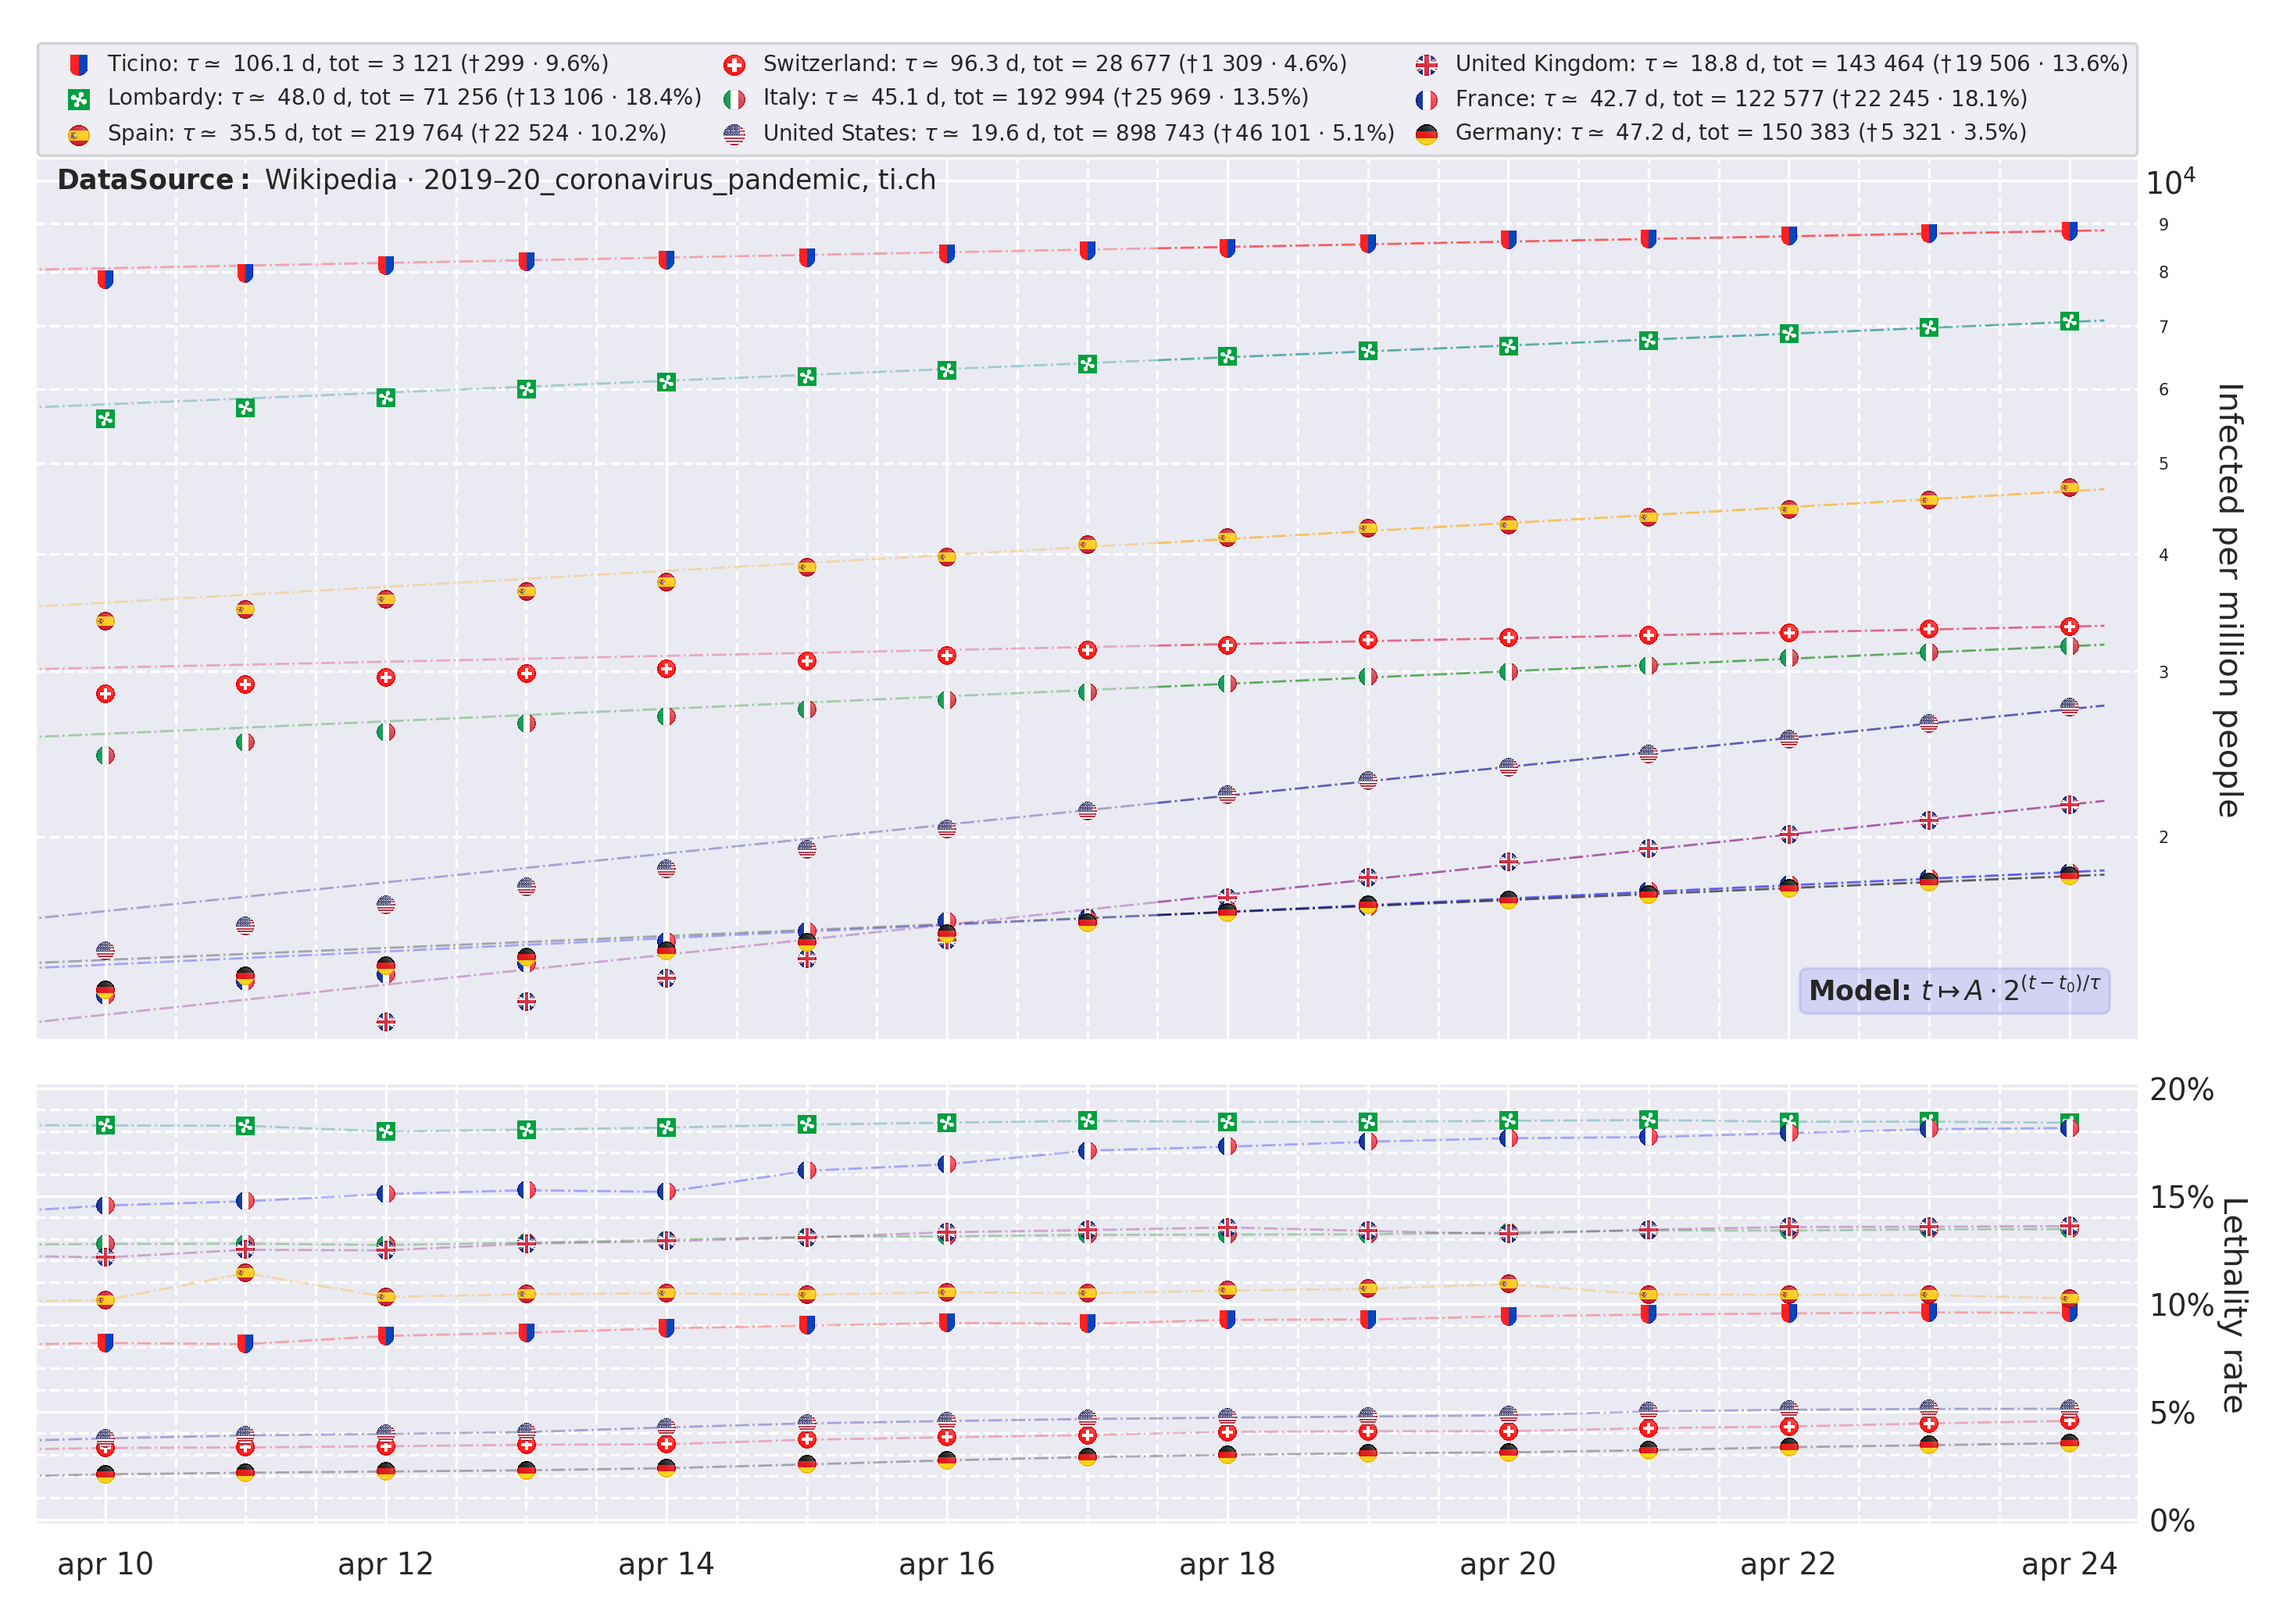
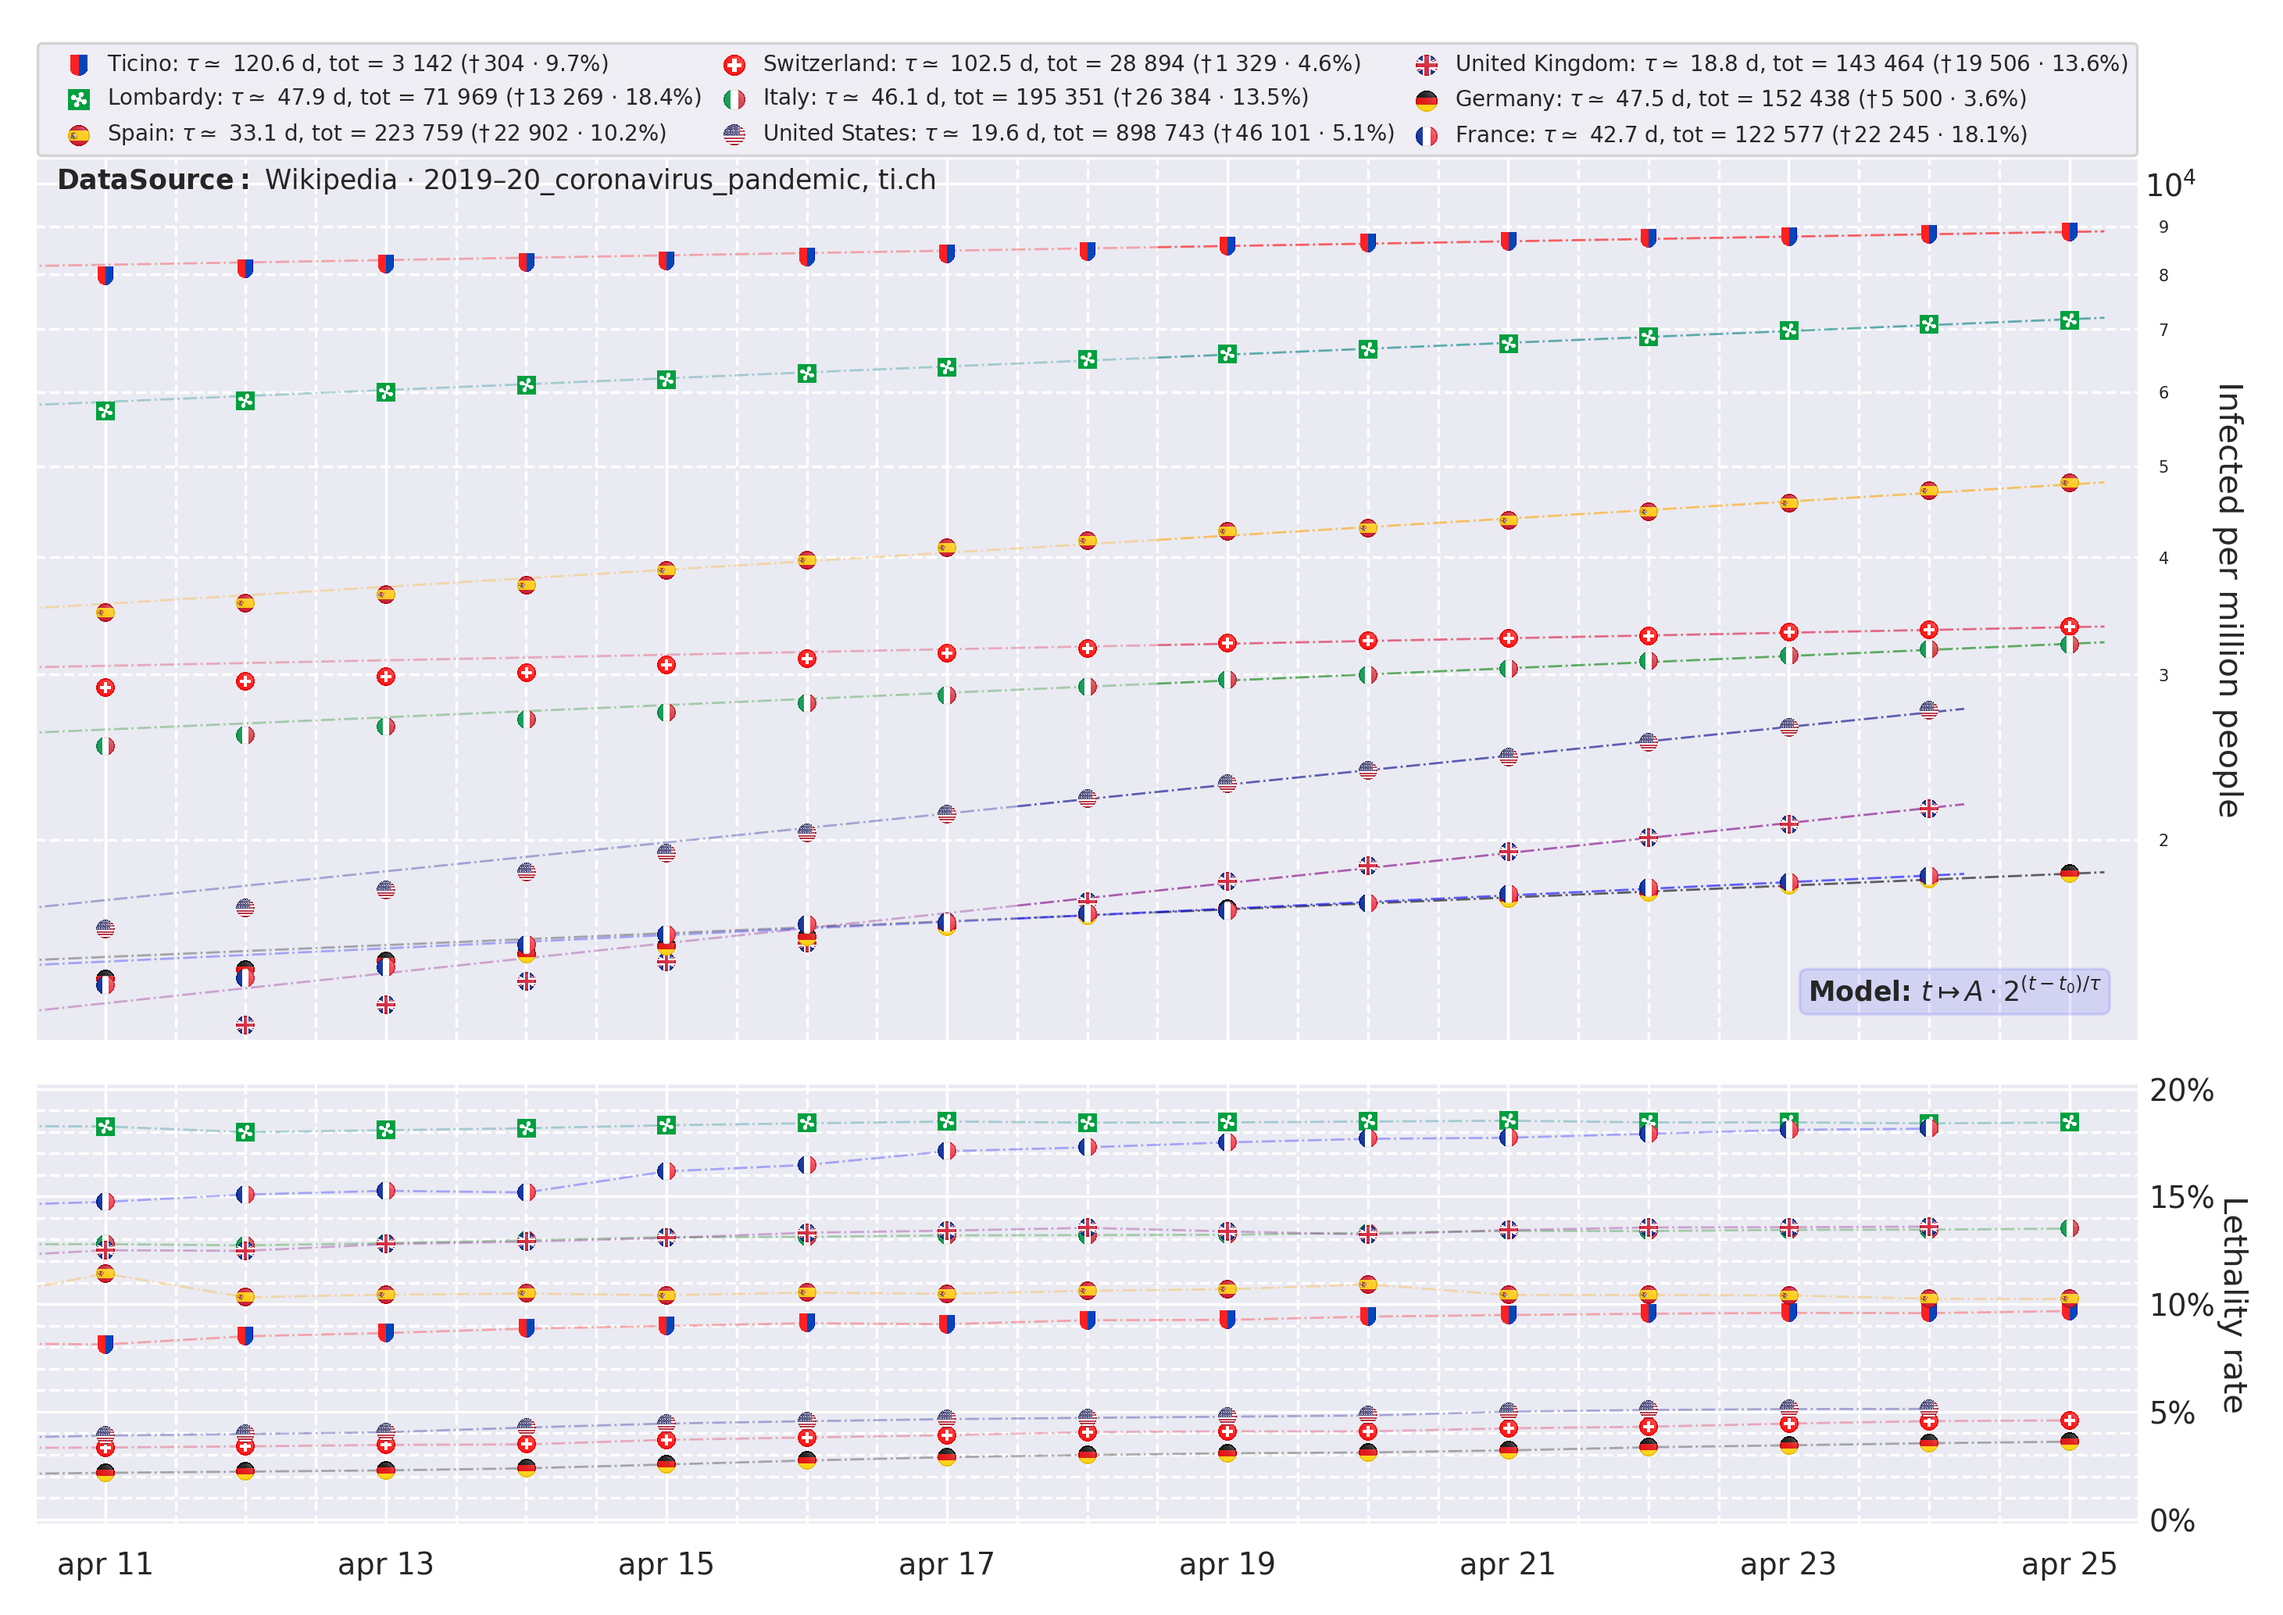
minor commit

diff --git a/Coronavirus/coronavirus.py b/Coronavirus/coronavirus.py
@@ -15,6 +15,8 @@ register_matplotlib_converters()
 # 3 modes: 0 no flags, 1 representative flags, 2 flag markers
 flags = 2
 
+country_numbers = 9  # number of countries to display (max 9)
+
 country_ds = pd.DataFrame(
     columns=["name", "population", "filename", "flagname", "date_format",
              "color", "tot_count", "density", "tot_death", "lethality",
@@ -45,6 +47,7 @@ country_ds["color"] = [
     "darkblue"
 ]
 country_ds.set_index("name", inplace=True)
+country_ds = country_ds.iloc[:country_numbers]
 
 for name in country_ds.index:
     kwargs = {"delimiter": ";", "index_col": "data", "parse_dates": True}
@@ -105,10 +108,14 @@ for idx, name in enumerate(country_ds.index):
     )
     labels.append(label)
 
-    image_path = "flags/" + country_ds["flagname"].loc[name]
+    flagname = country_ds["flagname"].loc[name]
+    if flagname is not None:
+        image_path = "flags/" + flagname
+    else:
+        image_path = None
 
     plot = plt.plot([], [])
-    if flags != 2 or not os.path.exists(image_path):
+    if flags != 2 or flagname is None or not os.path.exists(image_path):
         plot = ax1.plot(df.index, df["density"].values, ".", markersize=8,
                         color=country_ds["color"].loc[name], label=label)
     ax1.plot(d1, 2**(model.predict(t1[:, np.newaxis])), "-.", alpha=0.6,
@@ -117,7 +124,7 @@ for idx, name in enumerate(country_ds.index):
              color=country_ds["color"].loc[name], linewidth=0.8)
     plots.append(plot[0])
 
-    if flags == 1 and os.path.exists(image_path):
+    if flags == 1 and flagname is not None and os.path.exists(image_path):
         if init_time == 0:
             init_time = t[-15]
         if os.path.isfile("flags/" + flagname):
@@ -125,7 +132,7 @@ for idx, name in enumerate(country_ds.index):
             plot_images([t[flagIdx + idx]],
                         [df["density"].values[flagIdx + idx]],
                         image_path, xshift=0.2, scale=6, ax=ax1)
-    elif flags == 2 and os.path.exists(image_path):
+    elif flags == 2 and flagname is not None and os.path.exists(image_path):
         custom_handler = ImageHandler()
         custom_handler.set_image(image_path, image_stretch=(-8, 2))
         handlers[plot[0]] = custom_handler
